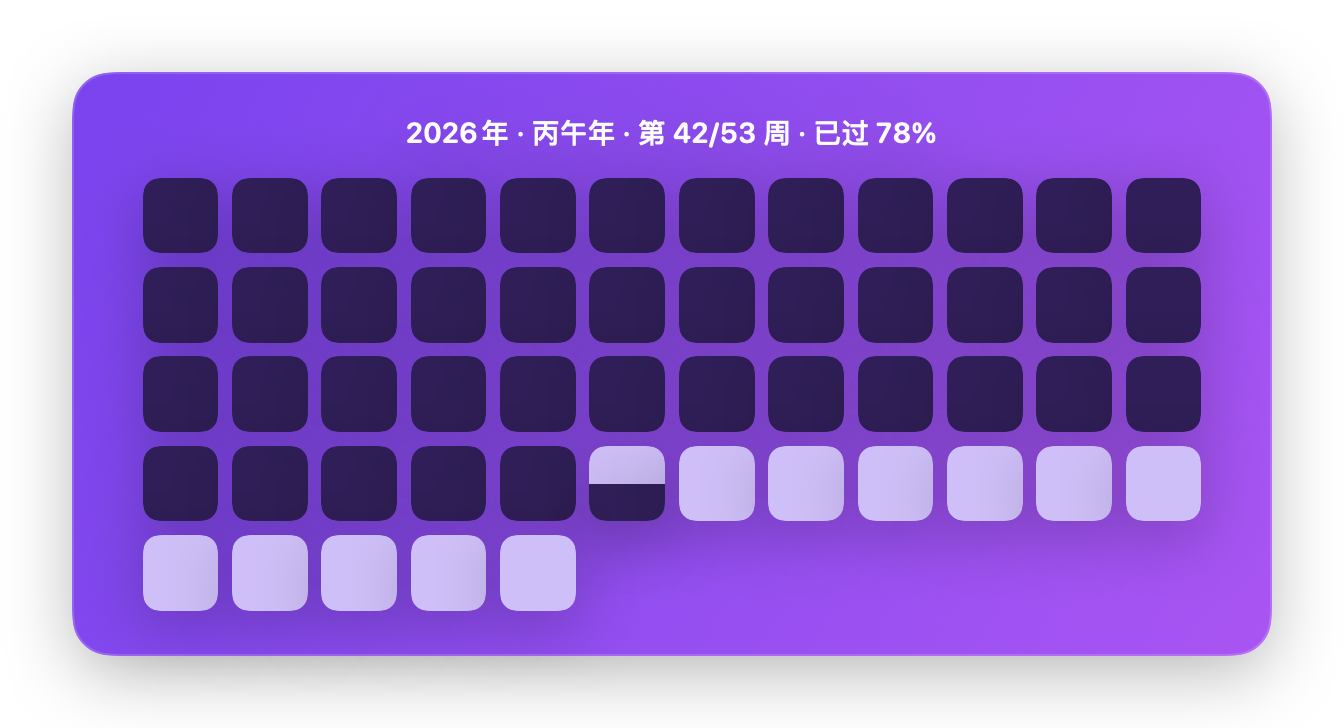
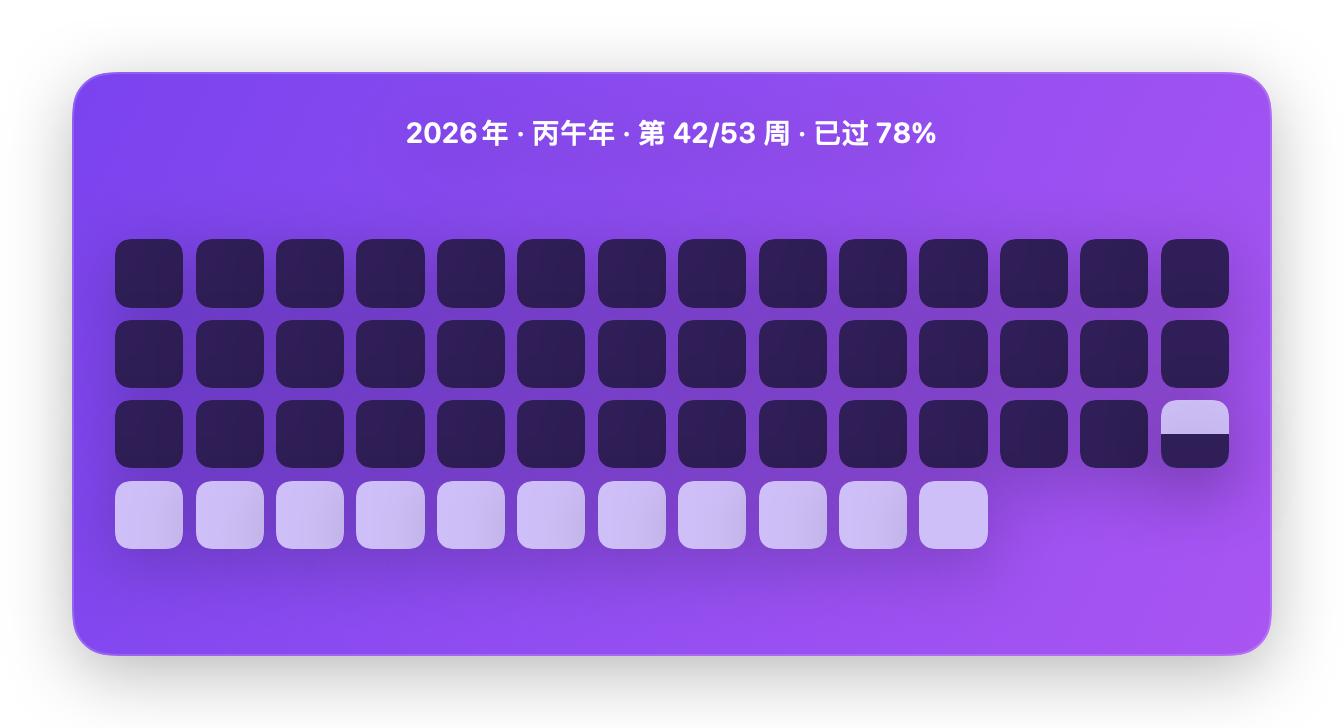
feat(panel): 面板网格复用系统中号小组件的行列（53周=14x4）

Changed region(s): [[0.0625, 0.2418, 0.9375, 0.8764]]

diff --git a/Sources/YearProgressUI/YearProgressCardView.swift b/Sources/YearProgressUI/YearProgressCardView.swift
@@ -19,6 +19,8 @@ public struct YearProgressCardView: View {
     public var chrome: CardChrome
     public var showsTooltips: Bool
     public var preferredColumns: Int
+    /// 非 nil 时使用固定列数（桌面挂件用它对齐小组件的行列）
+    public var fixedColumns: Int?
 
     public init(progress: YearProgress,
                 theme: CardTheme,
@@ -26,7 +28,8 @@ public struct YearProgressCardView: View {
                 profile: CardProfile = .app,
                 chrome: CardChrome = .card,
                 showsTooltips: Bool = true,
-                preferredColumns: Int = 13) {
+                preferredColumns: Int = 13,
+                fixedColumns: Int? = nil) {
         self.progress = progress
         self.theme = theme
         self.size = size
@@ -34,6 +37,7 @@ public struct YearProgressCardView: View {
         self.chrome = chrome
         self.showsTooltips = showsTooltips
         self.preferredColumns = preferredColumns
+        self.fixedColumns = fixedColumns
     }
 
     public var body: some View {
@@ -41,7 +45,8 @@ public struct YearProgressCardView: View {
         let note = progress.boundaryNote
         let layout = GridLayoutCalculator.compute(weekCount: progress.totalWeeks,
                                                  available: m.gridArea(noteVisible: note != nil),
-                                                 preferredColumns: preferredColumns)
+                                                 preferredColumns: preferredColumns,
+                                                 forcedColumns: fixedColumns)
 
         content(m: m, layout: layout, note: note)
             .padding(m.padding)

diff --git a/Tests/YearProgressCoreTests/PanelGridTests.swift b/Tests/YearProgressCoreTests/PanelGridTests.swift
@@ -1,0 +1,34 @@
+import Testing
+import Foundation
+@testable import YearProgressCore
+import YearProgressUI
+
+@Suite("桌面挂件与小组件网格一致")
+struct PanelGridTests {
+
+    @Test("基准列数：52 周 = 13 列，53 周 = 14 列")
+    func referenceColumns() {
+        #expect(WidgetGridReference.columns(weekCount: 52) == 13)
+        #expect(WidgetGridReference.columns(weekCount: 53) == 14)
+    }
+
+    @Test("桌面挂件（330×161）强制基准列数后，与中号小组件同为 14×4、末行 11 块")
+    func panelMatchesWidget() {
+        let panel = CardMetrics(size: CGSize(width: 330, height: 161), profile: .app)
+        let layout = GridLayoutCalculator.compute(weekCount: 53,
+                                                 available: panel.gridArea(noteVisible: false),
+                                                 forcedColumns: WidgetGridReference.columns(weekCount: 53))
+        #expect(layout.columns == 14)
+        #expect(layout.rows == 4)
+        #expect(layout.lastRowCount(weekCount: 53) == 11)
+    }
+
+    @Test("中号小组件自身算出来也是 14×4")
+    func widgetMatchesReference() {
+        let widget = CardMetrics(size: WidgetGridReference.referenceSize, profile: .widget)
+        let layout = GridLayoutCalculator.compute(weekCount: 53,
+                                                  available: widget.gridArea(noteVisible: false))
+        #expect(layout.columns == 14)
+        #expect(layout.rows == 4)
+    }
+}

diff --git a/Sources/YearProgressMac/Snapshot.swift b/Sources/YearProgressMac/Snapshot.swift
@@ -15,7 +15,8 @@ enum SnapshotRunner {
                                         theme: options.theme,
                                         size: options.size,
                                         profile: options.chrome == .widget ? .widget : .app,
-                                        chrome: chrome)
+                                        chrome: chrome,
+                                        fixedColumns: options.columns ?? (chrome == .card ? WidgetGridReference.columns(weekCount: progress.totalWeeks) : nil))
             .padding(options.margin)
             .background(Color.clear)
 
@@ -34,7 +35,8 @@ enum SnapshotRunner {
         let profile: CardProfile = options.chrome == .widget ? .widget : .app
         let metrics = CardMetrics(size: options.size, profile: profile)
         let layout = GridLayoutCalculator.compute(weekCount: progress.totalWeeks,
-                                                 available: metrics.gridArea(noteVisible: progress.boundaryNote != nil))
+                                                 available: metrics.gridArea(noteVisible: progress.boundaryNote != nil),
+                                                 forcedColumns: options.columns)
         print("  布局: \(layout.columns) 列 × \(layout.rows) 行 · 方块 \(String(format: "%.1f", layout.cellSize))pt · 末行 \(layout.lastRowCount(weekCount: progress.totalWeeks)) 块")
 
         let url = URL(fileURLWithPath: outputPath)

diff --git a/Sources/YearProgressCore/GridLayout.swift b/Sources/YearProgressCore/GridLayout.swift
@@ -43,13 +43,14 @@ public enum GridLayoutCalculator {
                                available: (width: Double, height: Double),
                                preferredColumns: Int = 13,
                                autoColumns: Bool = true,
+                               forcedColumns: Int? = nil,
                                candidates: [Int] = [7, 8, 9, 10, 11, 12, 13, 14, 16, 18, 26]) -> WeekGridLayout {
         let n = max(1, weekCount)
         let targetAspect = available.height > 0 ? available.width / available.height : 1
 
-        var columns = max(1, preferredColumns)
+        var columns = max(1, forcedColumns ?? preferredColumns)
         var auto = false
-        if autoColumns && n % columns != 0 {
+        if forcedColumns == nil, autoColumns && n % columns != 0 {
             columns = bestColumns(weekCount: n, targetAspect: targetAspect, candidates: candidates) ?? columns
             auto = columns != preferredColumns
         }

diff --git a/Sources/YearProgressMac/CLIOptions.swift b/Sources/YearProgressMac/CLIOptions.swift
@@ -17,6 +17,8 @@ struct CLIOptions {
     var timeZone: TimeZone = .current
     /// 导出时的渲染档位：app（大卡片，带圆角阴影）/ widget（系统小组件，无外框）
     var chrome: CardChrome = .card
+    /// 导出时强制列数（调试用，便于对比面板/小组件布局）
+    var columns: Int?
 
     static func parse(_ argv: [String]) -> CLIOptions {
         var o = CLIOptions()
@@ -46,6 +48,8 @@ struct CLIOptions {
                 if let v = next(), let m = Double(v) { o.margin = CGFloat(m); i += 1 }
             case "--timezone":
                 i += 1
+            case "--columns":
+                if let v = next(), let n = Int(v) { o.columns = n; i += 1 }
             case "--chrome":
                 if let v = next() { o.chrome = (v == "widget") ? .widget : .card; i += 1 }
             case "--week-start":

diff --git a/Sources/YearProgressUI/WidgetGridReference.swift b/Sources/YearProgressUI/WidgetGridReference.swift
@@ -1,0 +1,16 @@
+import Foundation
+import YearProgressCore
+
+/// 桌面挂件复用「系统中号小组件」的网格列数，保证两边行列一致。
+/// 基准尺寸取 macOS 中号小组件的典型大小（338×158）。
+public enum WidgetGridReference {
+    public static let referenceSize = CGSize(width: 338, height: 158)
+
+    public static func columns(weekCount: Int) -> Int {
+        let metrics = CardMetrics(size: referenceSize, profile: .widget)
+        let layout = GridLayoutCalculator.compute(weekCount: weekCount,
+                                                  available: metrics.gridArea(noteVisible: false),
+                                                  preferredColumns: 13)
+        return layout.columns
+    }
+}

diff --git a/Sources/YearProgressMac/WidgetPanel.swift b/Sources/YearProgressMac/WidgetPanel.swift
@@ -30,7 +30,10 @@ struct PanelRootView: View {
     @ObservedObject var state: AppState
 
     var body: some View {
-        YearProgressCardView(progress: state.progress, theme: state.theme, size: state.cardSize)
+        YearProgressCardView(progress: state.progress,
+                            theme: state.theme,
+                            size: state.cardSize,
+                            fixedColumns: WidgetGridReference.columns(weekCount: state.progress.totalWeeks))
             .shadow(color: .black.opacity(0.28), radius: 18, y: 8)
             .frame(maxWidth: .infinity, maxHeight: .infinity, alignment: .center)  // 卡片居中，四周留给阴影
     }

diff --git a/Package.swift b/Package.swift
@@ -26,7 +26,7 @@ let package = Package(
             ]
         ),
         .executableTarget(name: "YearWeekSpecDump", dependencies: ["YearProgressCore"]),
-        .testTarget(name: "YearProgressCoreTests", dependencies: ["YearProgressCore"]),
+        .testTarget(name: "YearProgressCoreTests", dependencies: ["YearProgressCore", "YearProgressUI"]),
     ],
     swiftLanguageModes: [.v5]
 )

diff --git a/PLAN.md b/PLAN.md
@@ -173,6 +173,8 @@ public struct YearProgress {
 - 圆角：`s * 0.22`；间距随尺寸缩放，整体气质偏克制、无阴影堆叠。
 - 信息层：**顶部一行居中** —— 年份 · 干支 · `第 42/53 周` · `已过 78%`；跨年周时补一行小字。
 - **系统小组件用 macOS 系统配色**（自适应浅色/深色），菜单里的主题/尺寸只作用于桌面挂件。
+- 桌面挂件的网格**复用系统中号小组件的行列**（`WidgetGridReference`，按 338×158 基准推算）：
+  53 周 = 14 列 × 4 行（末行 11 块），52 周 = 13 列 × 4 行。
 - 桌面挂件默认 **小尺寸 330×161 + 石墨主题**，永久锚定主屏右上角（卡片距右/上各 24pt）；
   改尺寸、关掉再打开、换屏幕/分辨率都会重新贴角，不保存拖动位置。
 - 自动选列增加「末行过空」惩罚：53 周在 13 列时会只剩 1 个孤块，现在会改选 11 列 × 5 行（末行 9 块）等更协调的方案。

diff --git a/README.md b/README.md
@@ -45,7 +45,9 @@ make spec       # 重新生成 spec/year-weeks.json（跨平台真值表）
 宿主 App 本身只有一个说明窗口 + 菜单栏小图标（4×4 小方块，不占 Dock）：
 菜单里可以打开可选的「桌面挂件」（贴桌面的浮窗版）、切换主题、尺寸、立即刷新，以及退出。
 
-> **菜单里的主题 / 尺寸只作用于桌面挂件**。系统小组件固定使用 macOS 自带配色
+> **菜单里的主题 / 尺寸只作用于桌面挂件**。桌面挂件的网格行列**复用系统中号小组件的布局**
+> （53 周年份：14 列 × 4 行、末行 11 块；52 周年份：13 列 × 4 行），所以两边看起来是同一张表。
+> 系统小组件固定使用 macOS 自带配色
 > （跟随浅色/深色：已过 = 主文字色，未来 = 系统填充色，背板 = `windowBackgroundColor`），
 > 不再跟面板的紫色/石墨联动。
 
